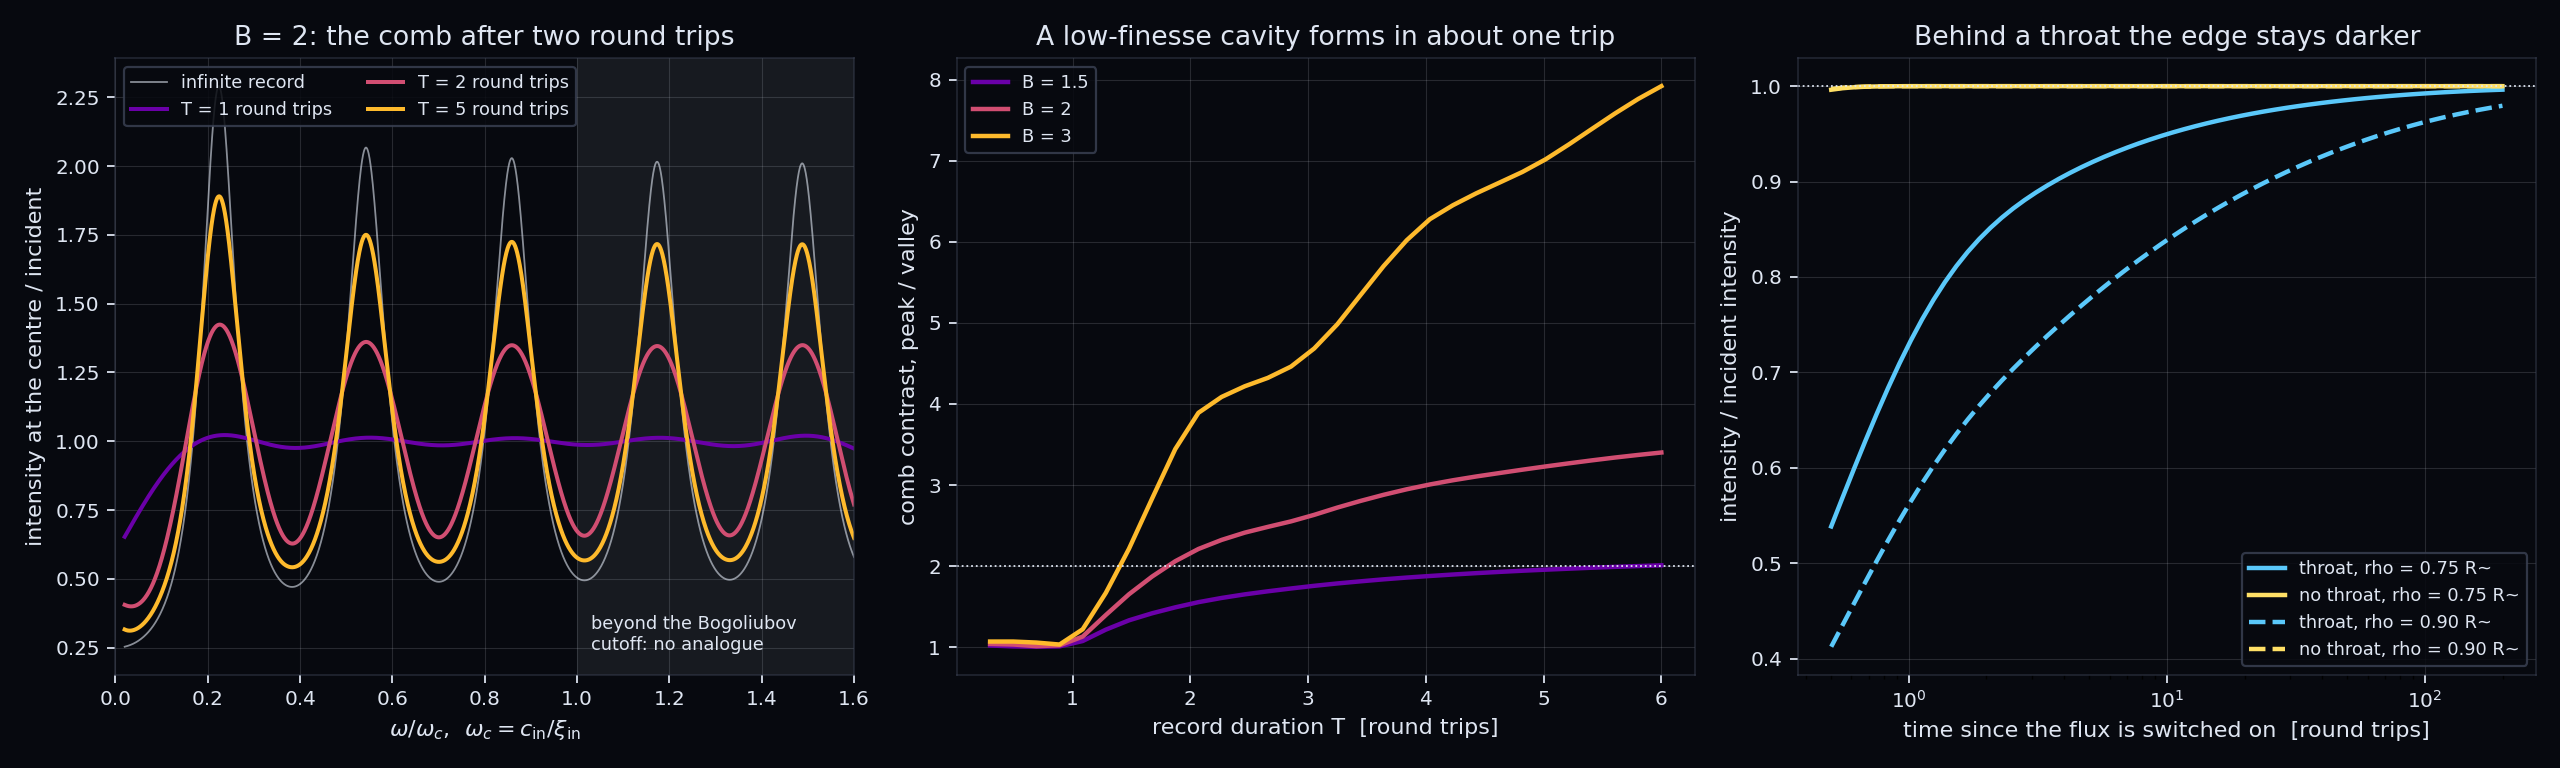
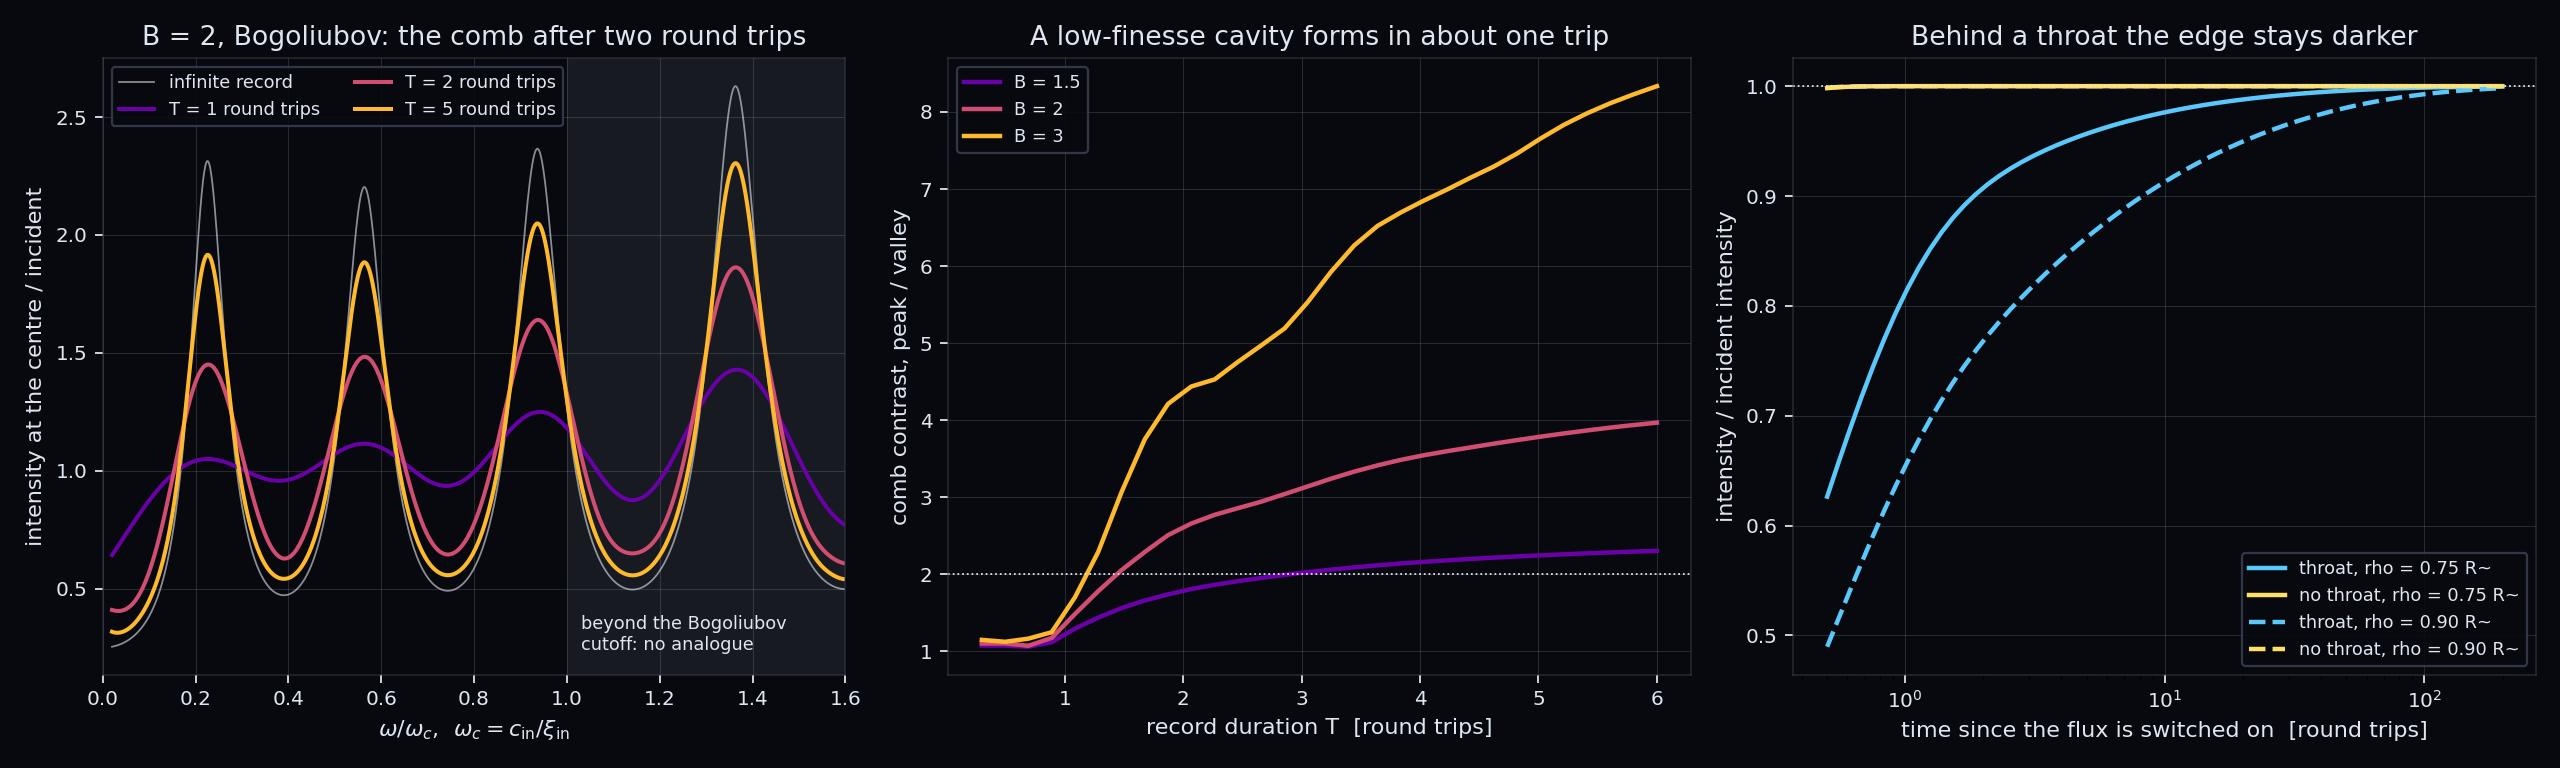
Show and document the acoustic pocket with Bogoliubov dispersion
The figure now includes the dispersion. README: the local-index model,
its effect on the three results (comb 2.2 -> 2.6 after two round trips,
darker edge 0.67 -> 0.77) and the mode conversion it leaves out; the
tests of the option. ROADMAP: dispersion done, mode conversion open.

diff --git a/src/warpdrive/viz/comparison.py b/src/warpdrive/viz/comparison.py
@@ -526,7 +526,7 @@ def plot_pocket_cavity(metric, path, n_steps=4000, n_k=20000):
     return save(fig, path)
 
 
-def plot_acoustic_pocket(path, radius=20.0, n_steps=2000):
+def plot_acoustic_pocket(path, radius=20.0, n_steps=2000, healing=1.0):
     """
     The acoustic Van Den Broeck pocket in a 2D condensate, in units of the
     healing length and the speed of sound outside (xi_out = c_out = 1).
@@ -536,6 +536,8 @@ def plot_acoustic_pocket(path, radius=20.0, n_steps=2000):
     w = 1 / B^2. Centre: its contrast against T, in round trips, for
     three values of B. Right: intensity near the edge after a flux is
     switched on, behind a throat and in a slow-sound cavity without one.
+    The Bogoliubov dispersion is included in the local-index
+    approximation unless `healing` is None.
     """
 
     # local imports keep viz free of a hard dependency on the solver
@@ -548,7 +550,7 @@ def plot_acoustic_pocket(path, radius=20.0, n_steps=2000):
                               sigma=10.0, inner_radius=radius,
                               thickness=thickness, alpha=ratio - 1.0,
                               order=order)
-        return AcousticPocket(metric, 1.0, 1.0, n_steps)
+        return AcousticPocket(metric, 1.0, 1.0, n_steps, healing=healing)
 
     fig, (left, centre, right) = dark_figure(1, 3, figsize=(16.0, 4.8))
     omegas = np.linspace(0.005, 0.45, 2500)
@@ -570,7 +572,7 @@ def plot_acoustic_pocket(path, radius=20.0, n_steps=2000):
     left.set_xlim(0.0, 1.6)
     left.set_xlabel(r"$\omega / \omega_c$,  $\omega_c = c_\mathrm{in}/\xi_\mathrm{in}$")
     left.set_ylabel("intensity at the centre / incident")
-    left.set_title("B = 2: the comb after two round trips")
+    left.set_title("B = 2, Bogoliubov: the comb after two round trips")
     dark_axes(left)
     _legend(left, loc="upper left", ncol=2)
 

diff --git a/README.md b/README.md
@@ -185,7 +185,10 @@ frequency and angular momentum. The acoustic pocket is checked on the exact
 zero-frequency solution $u = \sqrt q$ for both density laws, which pins the
 conformal term, on the transmission $`1 - ((B-1)/(B+1))^2`$ of a sharp edge, on
 the Fabry–Pérot contrast of the comb, on the flat chord of the round trip, and
-on the darker edge behind a throat against a smooth cavity without one.
+on the darker edge behind a throat against a smooth cavity without one. The
+Bogoliubov option is checked on the limits $\omega/c$ and $`\sqrt{2\omega/c\xi}`$ of
+$k_B$, on flux conservation with $`K = c\,k_B`$ on each side, on the group
+velocity of the round trip, and on the shifted comb.
 
 ### Where the physics comes from
 
@@ -618,23 +621,33 @@ acoustic metric does not drop out of the wave equation. `acoustic.AcousticPocket
 solves it as `waves.py` does in section 4, with Bessel functions as free
 solutions.
 
-Three results (figure below, $B = 2$, units $`\xi_\mathrm{out} = c_\mathrm{out} = 1`$):
-seen through a record of duration $T$, the comb is flat below one round trip
-and has contrast 2.2 after two, 3.2 after five, against 4.4 for an infinite
-record; the contrast grows with $B$, but so does the healing length inside,
+Three results (figure below, $B = 2$, units $`\xi_\mathrm{out} = c_\mathrm{out} = 1`$,
+Bogoliubov dispersion included as described next): seen through a record of
+duration $T$, the comb is flat below one round trip and has contrast 2.6 after
+two, 3.8 after five, against 5.0 for an infinite record; the contrast grows with $B$, but so does the healing length inside,
 leaving fewer resonances below the cutoff. Second, **the comb is not specific
 to the Van Den Broeck geometry**: a slow-sound region with a smooth edge and no
 throat has one too. Third, what is specific is the throat seen off centre: at
-$`0.9\,\tilde R`$ a pocket behind a throat holds 0.67 of the outside intensity
-after two round trips and 0.78 after five, recovering only as the trapped
+$`0.9\,\tilde R`$ a pocket behind a throat holds 0.77 of the outside intensity
+after two round trips and 0.86 after five, recovering only as the trapped
 modes with $m \gt \omega A_\mathrm{min}$ tunnel in, while a cavity without a
 throat is full at once. The deficit is far smaller than the ray value, because
 here $\Xi \sim 1$: the wave regime that a gravitational pocket within the
 quantum inequalities never reaches.
 
-What is left out: the Bogoliubov dispersion inside the solver (frequencies
-above the cutoff are marked, not modelled), the transonic flow that would make
-a horizon (a comb needs only a stationary source of phonons), and the full
+The Bogoliubov dispersion $`\omega^2 = c_s^2k^2(1 + k^2\xi^2/4)`$ enters in a
+local-index approximation: the wave equation sees $`c_s k_B(\omega, r)`$ in place
+of $\omega$, with $\xi = \hbar/mc_s$ growing as $B$ inside, and the pocket is
+crossed at the group velocity. It changes little: the same three resonances
+survive below the cutoff, shifted up (the last from $`0.86\,\omega_c`$ to
+$`0.94\,\omega_c`$); the larger jump of $k_B$ at the edge reflects a little more,
+so the comb after two round trips sharpens from 2.2 to 2.6; and since more
+partial waves cross the throat, the darker edge fades from 0.67 to 0.77. The
+approximation neglects the mode conversion of the full fourth-order
+Bogoliubov–de Gennes equations at an edge as sharp as $\xi$.
+
+What is left out: that mode conversion, the transonic flow that would make a
+horizon (a comb needs only a stationary source of phonons), and the full
 density–density correlation function.
 
 ![The comb of an acoustic pocket against record duration, and the darker edge behind a throat](images/readme/acoustic_pocket.png)

diff --git a/ROADMAP.md b/ROADMAP.md
@@ -521,7 +521,7 @@ until the trapped modes tunnel in, and none at all at the centre.
 
 ## 5. An acoustic Van Den Broeck bubble
 
-**Done up to 5c**, except dispersion and the flow. The question, reframed by
+**Done up to 5c**, except mode conversion and the flow. The question, reframed by
 section 4: the pocket does not filter a
 stationary flux, it is a cavity. Does an acoustic pocket, a region of slow
 sound behind a throat, leave a measurable Fabry–Pérot comb in the
@@ -579,7 +579,11 @@ density–density correlation spectrum of a Bose–Einstein condensate?
       behind a throat the edge of the pocket stays darker (0.67 at
       $`0.9\,\tilde R`$ after two round trips) while trapped modes tunnel in
 - [x] Figure `plot_acoustic_pocket`
-- [ ] Bogoliubov dispersion inside the solver, beyond marking the cutoff
+- [x] Bogoliubov dispersion in a local-index approximation (`healing=`):
+      the same resonances, shifted up; comb contrast after two round trips
+      2.2 -> 2.6; darker edge 0.67 -> 0.77. Conclusions unchanged
+- [ ] Mode conversion of the full Bogoliubov–de Gennes equations at a sharp
+      edge
 - [ ] The transonic flow that makes a horizon, and the full density–density
       correlation function with and without the pocket
 
